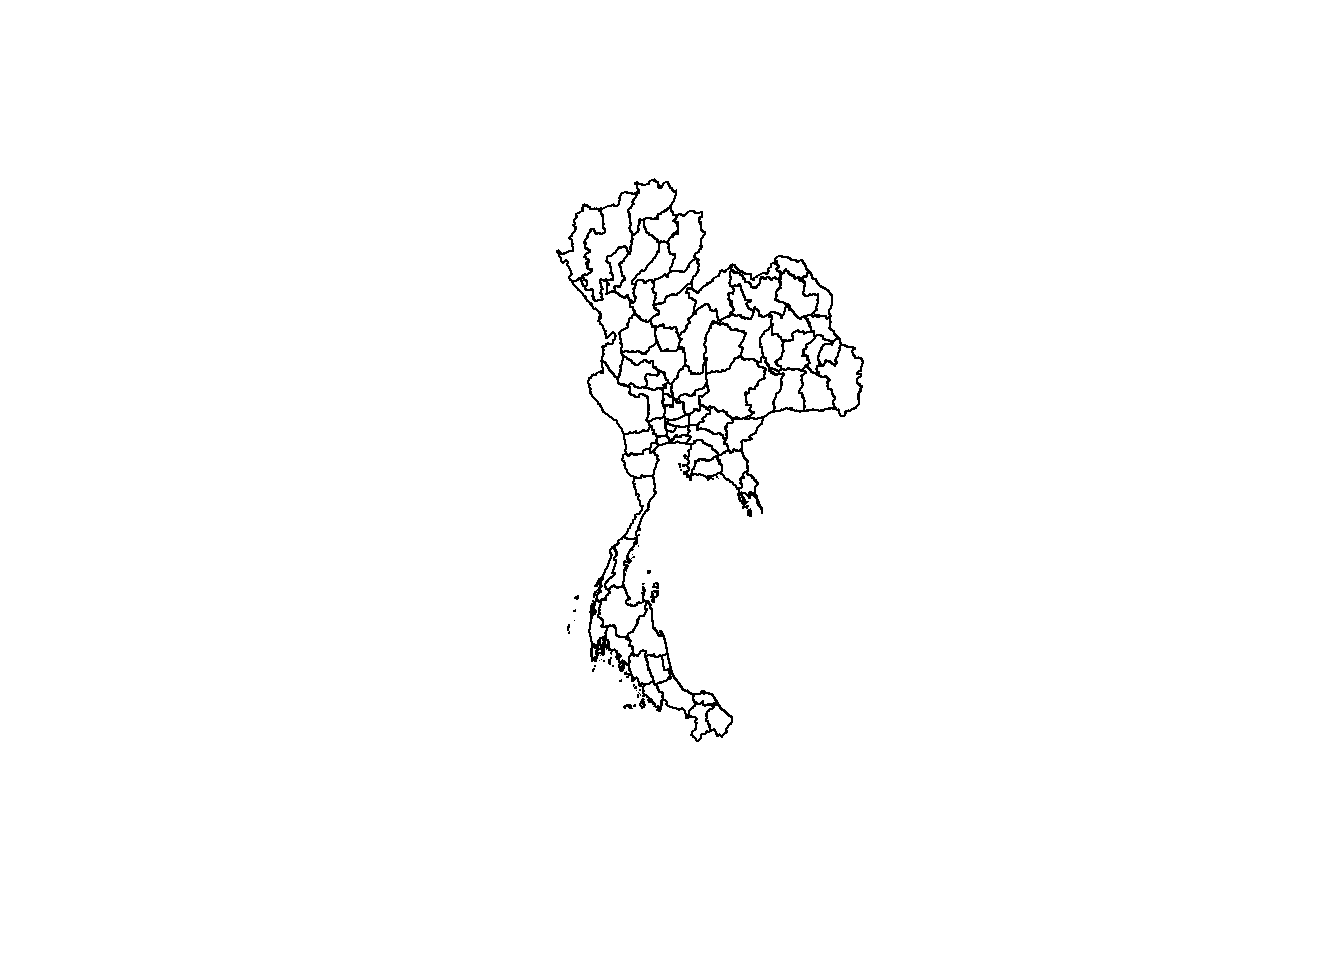
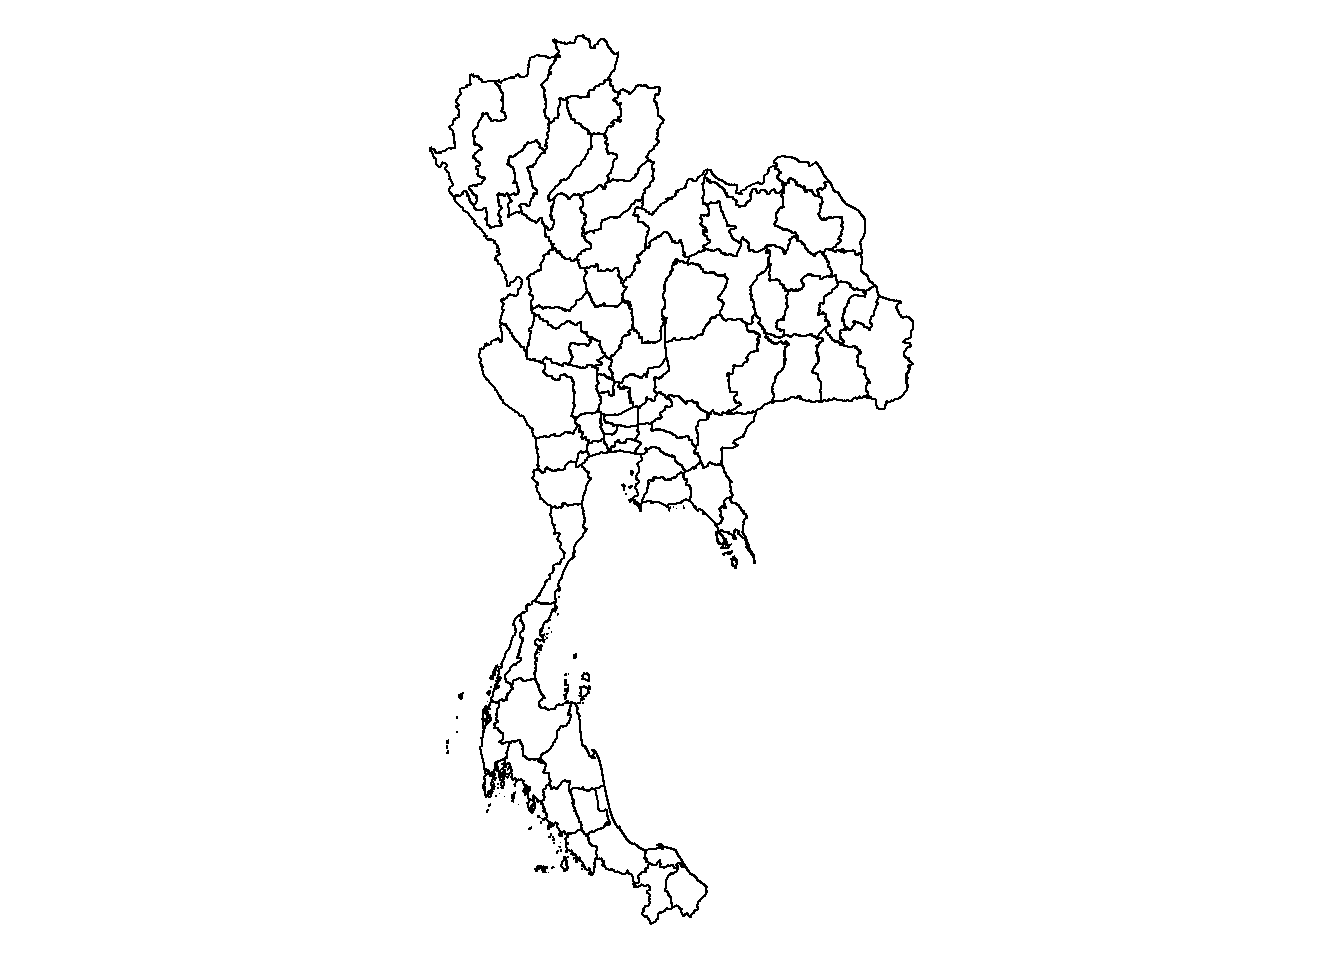
Update Take-home Exercise 3: •3.0 Data Wrangling

diff --git a/_site/Take-home_Ex/Take-home_Ex03/Take-home_Ex03.html b/_site/Take-home_Ex/Take-home_Ex03/Take-home_Ex03.html
@@ -240,6 +240,7 @@ pre > code.sourceCode > span > a:first-child::before { text-decoration: underlin
   <li><a href="#preparing-a-road-accident-layer" id="toc-preparing-a-road-accident-layer" class="nav-link" data-scroll-target="#preparing-a-road-accident-layer"><strong>3.2 Preparing a road accident layer</strong></a>
   <ul class="collapse">
   <li><a href="#extracting-relevant-columns-1" id="toc-extracting-relevant-columns-1" class="nav-link" data-scroll-target="#extracting-relevant-columns-1"><strong>3.2.1 Extracting relevant columns</strong></a></li>
+  <li><a href="#converting-aspatial-data-into-geospatial-data" id="toc-converting-aspatial-data-into-geospatial-data" class="nav-link" data-scroll-target="#converting-aspatial-data-into-geospatial-data"><strong>3.1.2 Converting aspatial data into geospatial data</strong></a></li>
   </ul></li>
   </ul></li>
   </ul>
@@ -282,9 +283,9 @@ pre > code.sourceCode > span > a:first-child::before { text-decoration: underlin
 <p>In this exercise, we will be using the following datasets:</p>
 <table class="table">
 <colgroup>
-<col style="width: 52%">
-<col style="width: 23%">
-<col style="width: 23%">
+<col style="width: 50%">
+<col style="width: 25%">
+<col style="width: 25%">
 </colgroup>
 <thead>
 <tr class="header">
@@ -366,7 +367,8 @@ Geodetic CRS:  WGS 84</code></pre>
 <span id="cb7-4"><a href="#cb7-4" aria-hidden="true" tabindex="-1"></a>         geometry)</span></code><button title="Copy to Clipboard" class="code-copy-button"><i class="bi"></i></button></pre></div>
 </div>
 <div class="cell">
-<div class="sourceCode cell-code" id="cb8"><pre class="sourceCode r code-with-copy"><code class="sourceCode r"><span id="cb8-1"><a href="#cb8-1" aria-hidden="true" tabindex="-1"></a><span class="fu">plot</span>(<span class="fu">st_geometry</span>(thailand_sf_extracted))</span></code><button title="Copy to Clipboard" class="code-copy-button"><i class="bi"></i></button></pre></div>
+<div class="sourceCode cell-code" id="cb8"><pre class="sourceCode r code-with-copy"><code class="sourceCode r"><span id="cb8-1"><a href="#cb8-1" aria-hidden="true" tabindex="-1"></a><span class="fu">par</span>(<span class="at">mar =</span> <span class="fu">c</span>(<span class="dv">0</span>,<span class="dv">0</span>,<span class="dv">0</span>,<span class="dv">0</span>))</span>
+<span id="cb8-2"><a href="#cb8-2" aria-hidden="true" tabindex="-1"></a><span class="fu">plot</span>(<span class="fu">st_geometry</span>(thailand_sf_extracted))</span></code><button title="Copy to Clipboard" class="code-copy-button"><i class="bi"></i></button></pre></div>
 <div class="cell-output-display">
 <p><img src="Take-home_Ex03_files/figure-html/unnamed-chunk-6-1.png" class="img-fluid" width="672"></p>
 </div>
@@ -428,11 +430,38 @@ Geodetic CRS:  WGS 84</code></pre>
 </div>
 </div>
 <div class="cell">
-<div class="sourceCode cell-code" id="cb14"><pre class="sourceCode r code-with-copy"><code class="sourceCode r"><span id="cb14-1"><a href="#cb14-1" aria-hidden="true" tabindex="-1"></a><span class="fu">which</span>(<span class="fu">colSums</span>(<span class="fu">is.na</span>(accidents))<span class="sc">&gt;</span><span class="dv">0</span>)</span></code><button title="Copy to Clipboard" class="code-copy-button"><i class="bi"></i></button></pre></div>
+<div class="sourceCode cell-code" id="cb14"><pre class="sourceCode r code-with-copy"><code class="sourceCode r"><span id="cb14-1"><a href="#cb14-1" aria-hidden="true" tabindex="-1"></a><span class="fu">colSums</span>(<span class="fu">is.na</span>(accidents_extracted))</span></code><button title="Copy to Clipboard" class="code-copy-button"><i class="bi"></i></button></pre></div>
 <div class="cell-output cell-output-stdout">
-<pre><code> latitude longitude 
-       15        16 </code></pre>
+<pre><code>            latitude            longitude    incident_datetime 
+                 359                  359                    0 
+         province_en       presumed_cause    weather_condition 
+                   0                    0                    0 
+number_of_fatalities   number_of_injuries 
+                   0                    0 </code></pre>
 </div>
+</div>
+<div class="cell">
+<div class="sourceCode cell-code" id="cb16"><pre class="sourceCode r code-with-copy"><code class="sourceCode r"><span id="cb16-1"><a href="#cb16-1" aria-hidden="true" tabindex="-1"></a>accidents_extracted <span class="ot">&lt;-</span> <span class="fu">na.omit</span>(accidents_extracted)</span></code><button title="Copy to Clipboard" class="code-copy-button"><i class="bi"></i></button></pre></div>
+</div>
+<div class="cell">
+<div class="sourceCode cell-code" id="cb17"><pre class="sourceCode r code-with-copy"><code class="sourceCode r"><span id="cb17-1"><a href="#cb17-1" aria-hidden="true" tabindex="-1"></a><span class="fu">colSums</span>(<span class="fu">is.na</span>(accidents_extracted))</span></code><button title="Copy to Clipboard" class="code-copy-button"><i class="bi"></i></button></pre></div>
+<div class="cell-output cell-output-stdout">
+<pre><code>            latitude            longitude    incident_datetime 
+                   0                    0                    0 
+         province_en       presumed_cause    weather_condition 
+                   0                    0                    0 
+number_of_fatalities   number_of_injuries 
+                   0                    0 </code></pre>
+</div>
+</div>
+</section>
+<section id="converting-aspatial-data-into-geospatial-data" class="level3">
+<h3 class="anchored" data-anchor-id="converting-aspatial-data-into-geospatial-data"><strong>3.1.2 Converting aspatial data into geospatial data</strong></h3>
+<div class="cell">
+<div class="sourceCode cell-code" id="cb19"><pre class="sourceCode r code-with-copy"><code class="sourceCode r"><span id="cb19-1"><a href="#cb19-1" aria-hidden="true" tabindex="-1"></a>accidents_sf <span class="ot">&lt;-</span> <span class="fu">st_as_sf</span>(accidents_extracted, </span>
+<span id="cb19-2"><a href="#cb19-2" aria-hidden="true" tabindex="-1"></a>                       <span class="at">coords =</span> <span class="fu">c</span>(<span class="st">"longitude"</span>, <span class="st">"latitude"</span>),</span>
+<span id="cb19-3"><a href="#cb19-3" aria-hidden="true" tabindex="-1"></a>                       <span class="at">crs=</span><span class="dv">4326</span>) <span class="sc">%&gt;%</span></span>
+<span id="cb19-4"><a href="#cb19-4" aria-hidden="true" tabindex="-1"></a>  <span class="fu">st_transform</span>(<span class="at">crs =</span> <span class="dv">4239</span>)</span></code><button title="Copy to Clipboard" class="code-copy-button"><i class="bi"></i></button></pre></div>
 </div>
 
 
